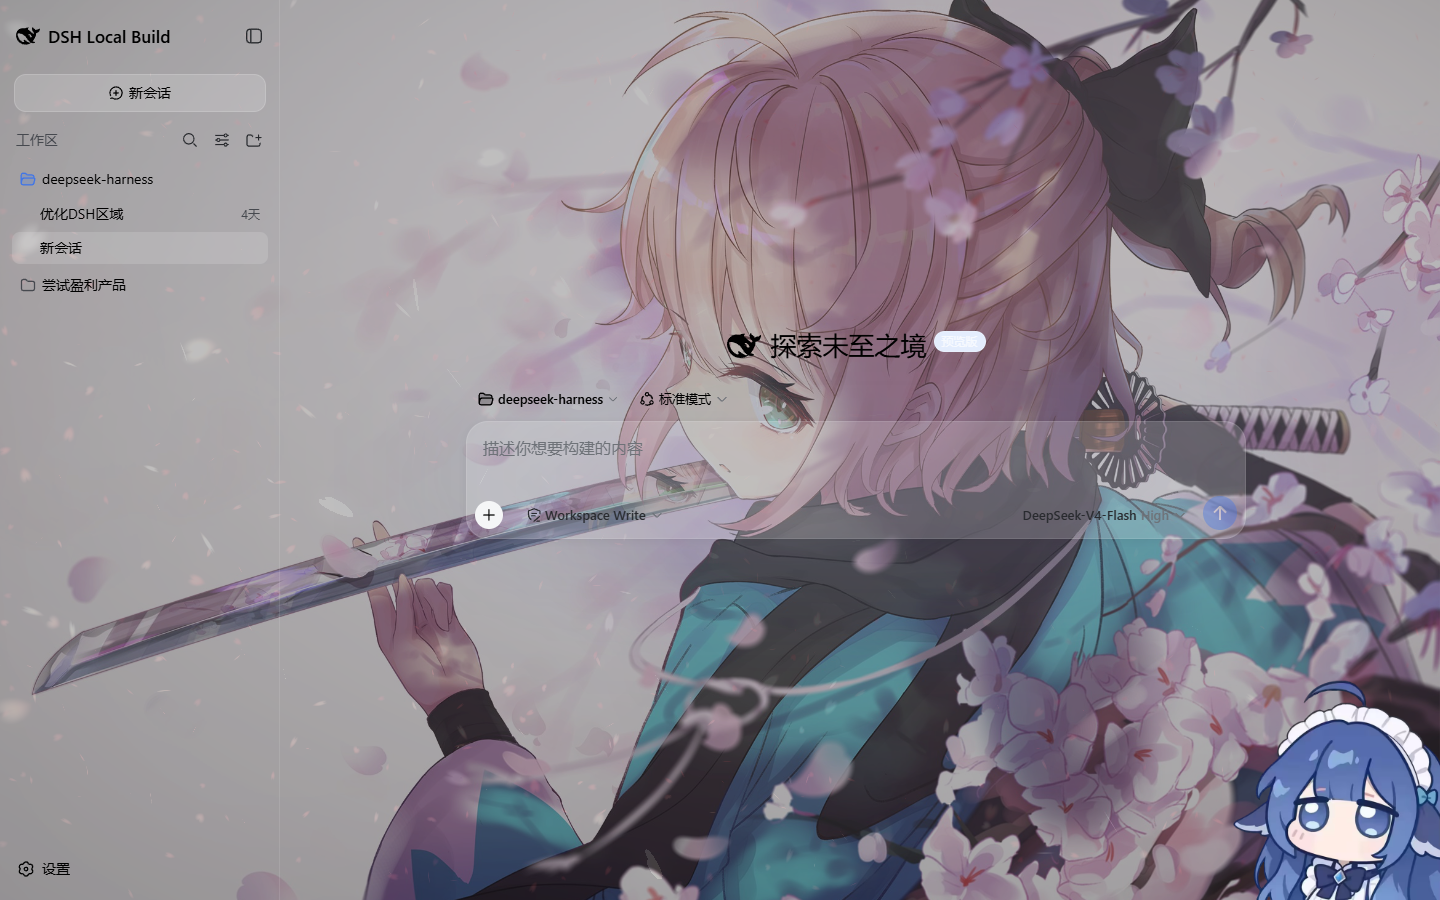
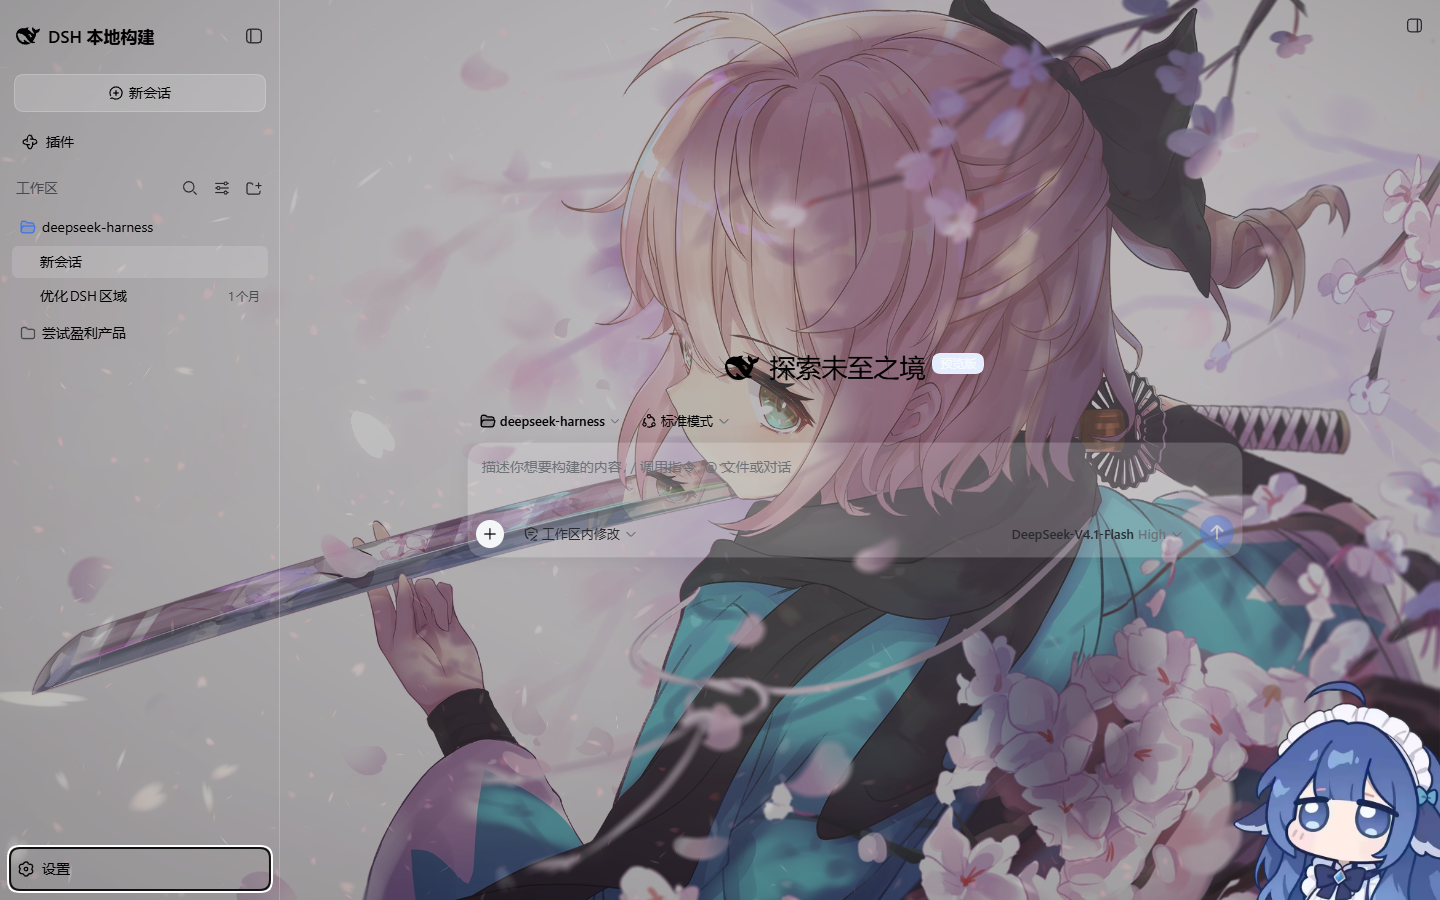
docs(screenshots): 重拍 8 月那批过期截图（01/04/05/06/07），对齐当前构建外观
01/04：小鲸鱼排版与报到方式已变（whale-widget.js layoutBabies 底部横排 + spawnBabyWhale 每只自己冒「报到！」），旧图拍的是竖排 + 主鲸鱼统一报数，属实质过时，重拍。

05/06/07：旧图是 8 月宿主外观（DSH Local Build 侧栏、无「插件」行、旧输入卡与旧设置导航），重拍为当前宿主外观。

README 同步修正 5 处与现版本不符的文案：小鲸鱼分布（周围→贴主鲸鱼底边横排一行）、报到气泡（「N 只小小鲸鱼报到」→每只自己头顶「报到！」）、01/04 场景表（竖排→底部横排）、07 场景表去掉「余额气泡」（截图不含该气泡：余额取数依赖宿主凭据服务，隔离环境无法复现真实余额，不用伪造状态充数）。

07 由 1440x747 裁图改为 1440x900 整屏。

diff --git a/README.md b/README.md
@@ -4,7 +4,7 @@
 
 [![npm version](https://img.shields.io/badge/version-0.5.2-blue)](#) [![dsh](https://img.shields.io/badge/dsh-%E2%89%A50.1.6--alpha.2-blueviolet)](#) [![bundle](https://img.shields.io/badge/bundle-4.6MB-success)](#) [![license](https://img.shields.io/badge/license-CC--BY--NC--SA--4.0-orange)](#license)
 
-每个子代理都是一只**独立、完整、可互动**的小鲸鱼，分布在主鲸鱼周围；主鲸鱼本身可拖动、点击回弹、换皮；29 套主题、10 态光标，所有声音可独立控制。
+每个子代理都是一只**独立、完整、可互动**的小鲸鱼，默认贴主鲸鱼底边**排成一行**（自侧栏右缘起向右，不钻侧栏）；主鲸鱼本身可拖动、点击回弹、换皮；29 套主题、10 态光标，所有声音可独立控制。
 
 ![3 只子代理小鲸鱼 + 报到气泡](docs/screenshots/01-three-babies.png)
 
@@ -19,7 +19,7 @@
 | 特性 | 说明 |
 |---|---|
 | **1:1 生命周期** | 每个子代理 = 一份完整小鲸鱼；子代理入场→小鲸鱼出现，离场→小鲸鱼离开（带"呱"声） |
-| **错开报到** | 同时到达时逐只跳出来（间隔 ~170ms），每只"叽"一声叫，气泡显示「N 只小小鲸鱼报到」 |
+| **错开报到** | 同时到达时逐只跳出来（间隔 ~170ms），每只"叽"一声叫，并在**自己头顶**冒一个「报到！」小气泡（独立个体自己报数） |
 | **点击回弹（q 弹）** | **按下瞬间**主鲸鱼 / 小小鲸鱼都弹一下（squash & stretch 回弹），配合叫声一按一响；hover 不弹 |
 | **摸多了会生气** | 10 秒内连按满 8 次 → 主鲸鱼左右抖动 + 气泡弹出气话（「别摸啦！头要秃了！」），15 秒冷静期内不重复触发 |
 | **可单独拖动** | 按住任意一只拖到屏幕任意位置，**自动吸附墙壁**（贴左/右/上/下） |
@@ -106,11 +106,11 @@
 
 | 文件 | 场景 |
 |---|---|
-| `01-three-babies.png` | 3 只子代理到达 → 报到气泡 + 竖排小鲸鱼 |
-| `04-five-babies.png` | 5 只子代理沿右侧竖排报到，气泡显示「5 只小小鲸鱼报到」，主鲸鱼在右下角 |
+| `01-three-babies.png` | 3 只子代理到达 → 每只头顶「报到！」气泡 + 底部横排小鲸鱼 |
+| `04-five-babies.png` | 5 只子代理沿屏幕底部横排报到，各冒「报到！」气泡，主鲸鱼在右下角 |
 | `05-we-wallpaper.png` | WE 壁纸生效：冲田总司樱花壁纸全屏，主题样式挂起、UI 毛玻璃穿透显示 |
 | `06-we-picker.png` | WE 壁纸选择器：扫描本机 Wallpaper Engine 壁纸缩略图网格 |
-| `07-maid-atelier.png` | 默认主题深海女仆工坊：左右双女仆立绘 + 主鲸鱼 + 余额气泡 |
+| `07-maid-atelier.png` | 默认主题深海女仆工坊默认首屏：左右双女仆立绘 + 主鲸鱼 |
 | `08-maid-settings-light.png` | 设置弹窗（浅色档）区域裁图：编号导航 + 外观/主题面板 |
 | `09-maid-settings-dark.png` | 同一弹窗的深色档：弹窗跟随主题自身明暗，不跟宿主 |
 | `10-maid-sidebar.png` | 会话侧栏竖条：海军蓝底 + 金边 + 会话行 / 工作区 |
